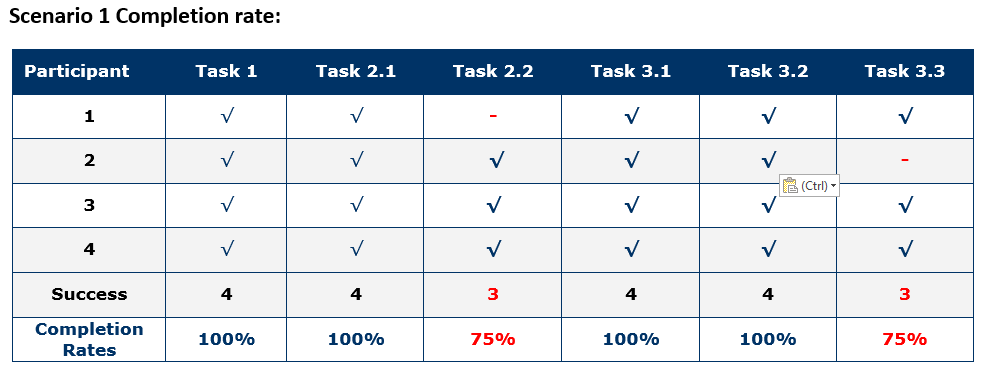
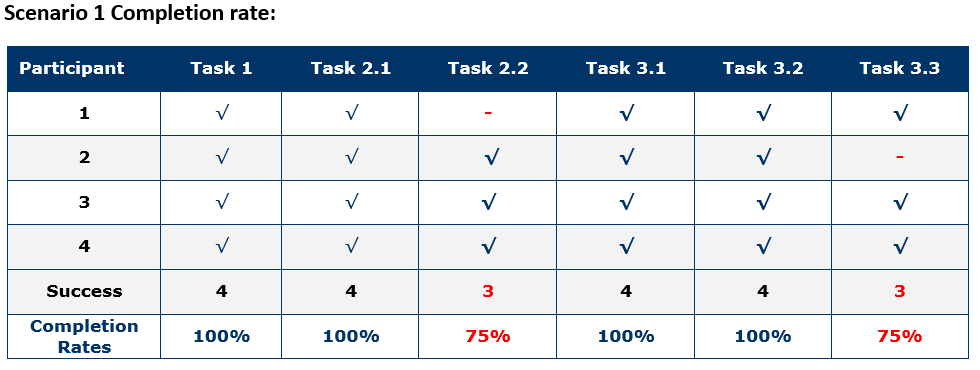
more work and more xs

diff --git a/Report/usability.tex b/Report/usability.tex
@@ -156,21 +156,9 @@ We conducted an on site usability test using a production version of PeacefulBan
 The usability test was conducted in a private lab-room at NTNU on November 10th. The purpose of the test was to assess the usability of the web application design, information flow, information architecture and the effects of sharing personal reflection notes. The findings acted as valuable feedback to our delivery cycle, and were used for improving the design of the application. 
 Four participants attended the test. Each individual session lasted approximately twenty minutes.
 This section contains the participant feedback, satisfactions ratings, task completion rates, ease or difficulty of completion ratings, time on task, errors, and recommendations for improvements.
-\subsection*{Presentation of results}
-\subsubsection{Task Completion Success Rate}
-\textbf{Scenario 1 completion rates:}
-\begin{figure}[h!]
-    \centering
-        \includegraphics[width=\textwidth]{scenario1completionrate}
-    \caption{Scenario 1 Completion Rate}
-    \label{scenario1completionrate}
-\end{figure}
-\begin{figure}[h!]
-    \centering
-        \includegraphics[width=\textwidth]{scenario2completionrate}
-    \caption{Scenario 2 Completion Rate}
-    \label{scenario2completionrate}
-\end{figure}
+\subsection*{Task Completion Success Rate}
+This section presents the task completion rates for our two scenarios. Figure \ref{scenario1completionrate} shows the completion rate table for Scenario 1, and Figure \ref{scenario2completionrate} shows the completion rate table for Scenario 2. 
+\subsubsection{Scenario 1 completion rates:}
 All participants successfully completed (100\% Completion rate):
 \begin{itemize}
 	\item Task 1 - Start the application and set active repository. 
@@ -178,7 +166,13 @@ All participants successfully completed (100\% Completion rate):
 	\item Task 3.1 - Find the \emph{Reminder: Daily reflection} note and perform the daily summary. 
 	\item Task 3.2 - Find and share the daily reflection note.
 \end{itemize}
-For Task 2.2(Find and archive congratulations notification) and Task 3.3(Find mood graph), 3 out of 4 participants completed the tasks(75\% Completion rate). \\
+For Task 2.2(Find and archive congratulations notification) and Task 3.3(Find mood graph), 3 out of 4 participants completed the tasks(75\% Completion rate). 
+\begin{figure}[h!]
+    \centering
+        \includegraphics[width=\textwidth]{scenario1completionrate}
+    \caption{Scenario 1 Completion Rate}
+    \label{scenario1completionrate}
+\end{figure}
 
 \textbf{Scenario 2 completion rates:}
 All participants successfully completed (100\% Completion rate):
@@ -194,14 +188,16 @@ All participants successfully completed (100\% Completion rate):
 \end{itemize}
 3 out of 4 participants(75\%) successfully completed Task 5.1(Find all milestones for your repository), while 2 out 4(50\%) successfully completed Task 5.3 (Find your repositories issues). 
 
-\subsubsection{Time on task}
-Time on task for each participant was recorded. Some tasks were inherently more difficult to complete than others and is reflected by the average time on task.
 \begin{figure}[h!]
     \centering
-        \includegraphics[width=\textwidth]{timeontaskscenario1}
-    \caption{Time on task Scenario 1}
-    \label{timeontaskscenario1}
+        \includegraphics[width=\textwidth]{scenario2completionrate}
+    \caption{Scenario 2 Completion Rate}
+    \label{scenario2completionrate}
 \end{figure}
+
+\subsection*{Time on task}
+Time on task for each participant was recorded. Some tasks were inherently more difficult to complete than others and is reflected by the average time on task. Time on task results for Scenario 1 is presented in Figure \ref{timeontaskscenario1}, and time on task results for Scenario 2 is presented in Figure \ref{timeontaskscenario2}.
+\subsubsection{Time on task - Scenario 1}
 \begin{itemize}
 	\item \textbf{Task 1(Start the application and set active team/repository)} showed a high average time on task. The main reason behind this was the authorization with GitHub which required users to login and authorize on the external GitHub.com page.
 	\item \textbf{Task 2.1(View notifications)} showed a very similar time on task by the participants, the same can be seen on \textbf{Task 2.2(Find and archive notification)} although the time by each participant was over 80 seconds.
@@ -209,20 +205,27 @@ Time on task for each participant was recorded. Some tasks were inherently more 
 \end{itemize}
 \begin{figure}[h!]
     \centering
-        \includegraphics[width=\textwidth]{timeontaskscenario2}
-    \caption{Time on task Scenario 2}
-    \label{timeontaskscenario2}
+        \includegraphics[width=\textwidth]{timeontaskscenario1}
+    \caption{Time on task Scenario 1}
+    \label{timeontaskscenario1}
 \end{figure}
+\subsubsection{Time on task - Scenario 2}
 \begin{itemize}
 	\item \textbf{Task 4.1(Create a team)} showed the longest completion time in Scenario 2. The main reason behind this was the amount of data that needed to be collected from GitHub and stored in the PeacefulBanana database. The task also showed the longest range in completion time, from 185 seconds to 310 seconds. The reason behind this large gap was mainly the difference in amount of data present in the GitHub repositories they chose to create a team for. \textbf{Task 4.2(Set active team) showed no major changes in completion time, and the same can be seen in \textbf{Task 4.3(Identify team members)}}
 	\item \textbf{Task 5.1(Find all milestones)} showed that 3 out of 4 participants had very similar completion times(45, 52 and 51 seconds), but the average was increased by that the last participant had a completion time of 95 seconds. \textbf{Task 5.2(Identify overdue milestones)} showed very similar completion times, while \textbf{Task 5.3(Find repository issues)} had one participant at 71 seconds, while the rest used an average of 50 seconds. \textbf{Task 5.4(Find issue \#17)} showed an average of 75 seconds, with no significant differences. 
 	\item \textbf{Task 6.1(Generate tag cloud)} averaged on 50 seconds, \textbf{Task 6.2(Identify most used individual and team tags)} averaged 41 seconds and \textbf{Task 6.3(Find commit impact)} averaged at 36 seconds, all with no significant difference in completion time. 
 \end{itemize}
+\begin{figure}[h!]
+    \centering
+        \includegraphics[width=\textwidth]{timeontaskscenario2}
+    \caption{Time on task Scenario 2}
+    \label{timeontaskscenario2}
+\end{figure}
 
 \subsection{Summary of Data}
 The number of errors participants made while trying to complete the tasks were captured and recorded. Critical errors leads to participant failing in completing scenario, while non-critical errors is an error that does not prevent successful completion of the scenario. These errors along with task completions and time on task average for each task are represented in Figure \ref{datasummary}.
 Low completion rate, occurrence of critical-errors and high time on task are highlighted in red. 
-\begin{figure}[h!]
+\begin{figure}[H]
     \centering
         \includegraphics[width=\textwidth]{datasummary}
     \caption{Summary of Data}
@@ -230,7 +233,7 @@ Low completion rate, occurrence of critical-errors and high time on task are hig
 \end{figure}
 
 \subsubsection{Overall Metrics}
-After completing the usability session, participants were given a \emph{System Usability Scale} form to answer\citep{brooke1996sus}. These can be seen in Figure: \ref{posttaskoverall}. 
+After completing the usability session, participants were given a \emph{System Usability Scale} form to answer\citep{brooke1996sus}. The results from the SUS-scale can be seen in Figure: \ref{posttaskoverall}. 
 
 All participants agreed(i.e., agree or strongly agree) that they would use the application frequently and that the application was easy to use. All participants(100\%) also felt confident when using the application. The majority of the participants(75\%) felt the functions in the application were well integrated, and that most people would learn to use the system very quickly. Half of the participants(50\%) agreed that there were inconsistencies in the system. None of the participants(0\%) found the system unnecessarily complex or that it was cumbersome to use. Further none of the participants felt users would need support of a technical person to use the system(based on the intended user group) or that they needed to learn a lot before getting going with the system. The participants mentioned the quick start guide as a possible look-to document in case of trouble.  
 \begin{figure}[h!]
@@ -242,7 +245,7 @@ All participants agreed(i.e., agree or strongly agree) that they would use the a
 
 \subsubsection{Reflection and sharing}
 \label{subsubsec:reflection}
-Participants were also asked to answer the questions identified in \ref{subsec:context}
+Participants were also asked to answer the questions identified in Section \ref{subsec:context}
 \begin{itemize}
 	\item Is the application easy to use, and can users achieve their goals in a timely manner?
 \end{itemize}

diff --git a/Feedback.md b/Feedback.md
@@ -100,7 +100,7 @@
 ### Usability
 [] How have we chosen participants, at which stage of development were they recruited and which version of the system did they use,
 
-[] Reposition Scenario 1 completion rate figure
+[X] Reposition Scenario 1 completion rate figure
 
 [] Say more about task on time complexity
 
